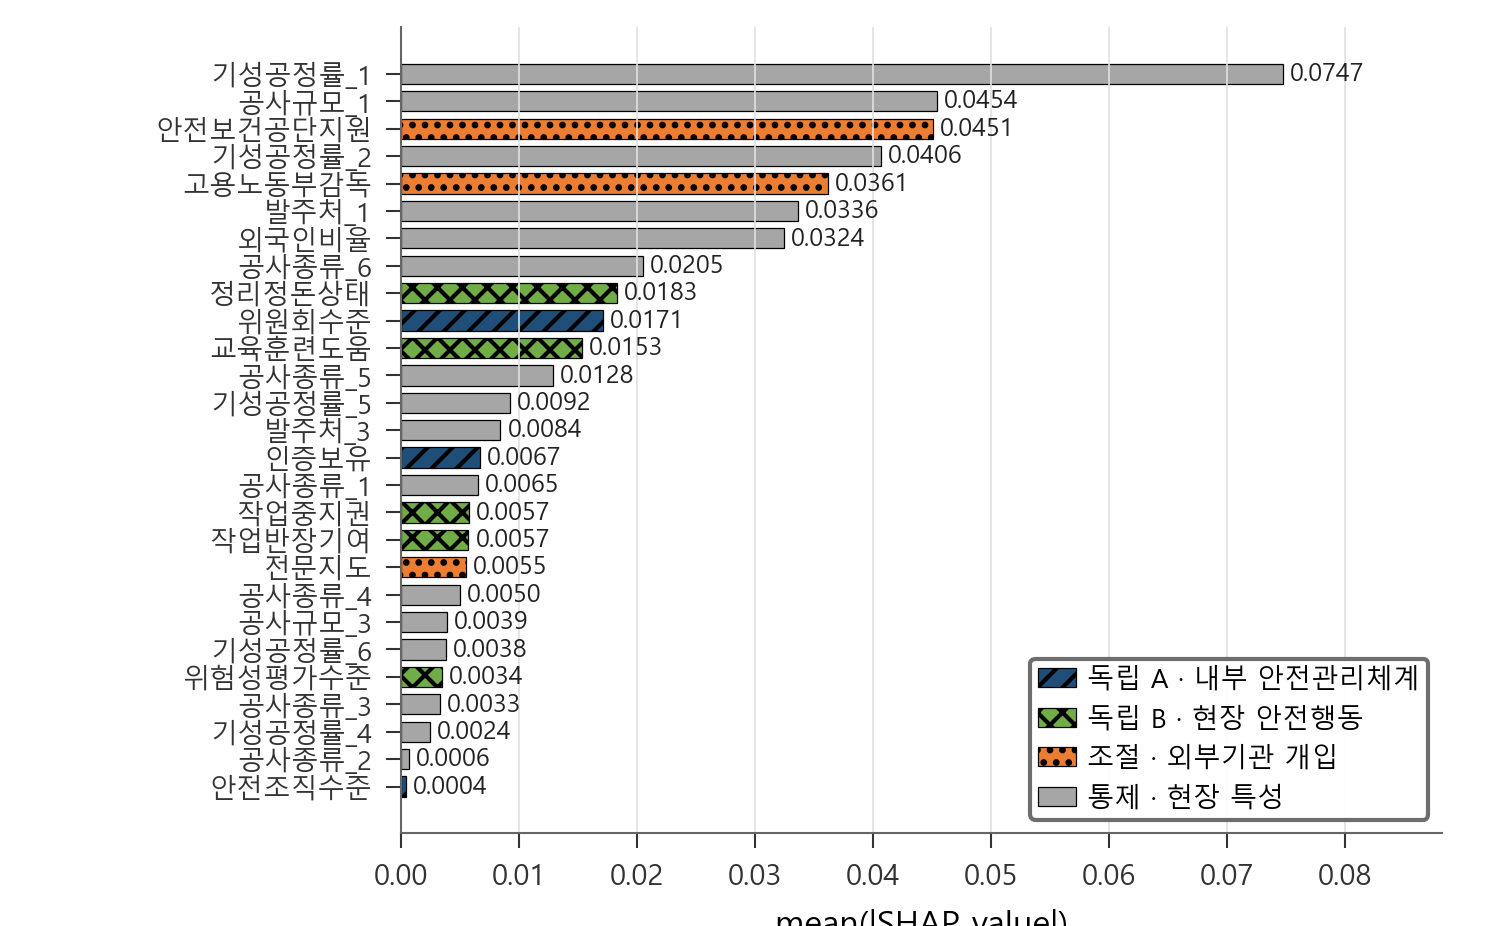
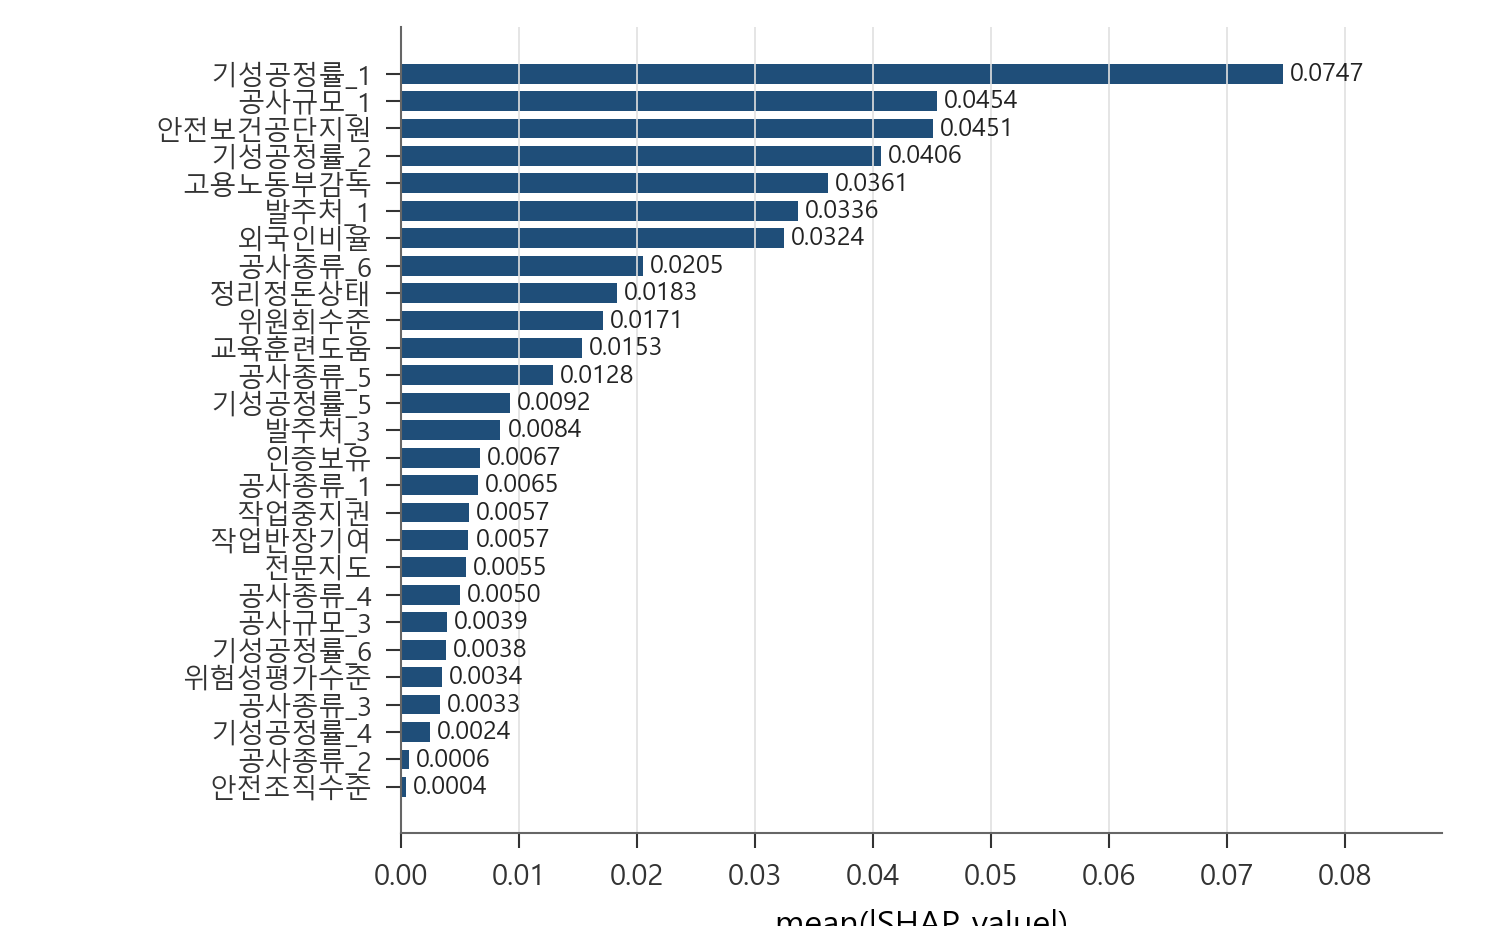
results/ 그림 3종 정리: 단일 파랑톤 + 해치 제거 + 그리드 제거
- 13_shap_bar.png: 카테고리 색·해치 전부 제거, 진한 파랑(#1F4E79) 단일색
- 12_shap_dependence_housekeeping.png: 양/음 색 분리 제거, 파랑 단일색
- 14_shap_interaction_heatmap.png: 셀 minor grid 제거

Changed region(s): [[0.1548, 0.0605, 0.8668, 0.8467], [0.681, 0.6955, 0.9596, 0.9071]]

diff --git a/src/paper_figures.py b/src/paper_figures.py
@@ -147,27 +147,16 @@ report_dims(OUT / '11_roc_curves.png')
 
 
 # ============ 그림 7.2 — SHAP Bar 전체 27변수 (125.85 × 78.46 mm) ============
-def cat_of(v):
-    if v in VARS_A:   return ('A', COLOR_INV_A,   '////', '독립 A · 내부 안전관리체계')
-    if v in VARS_B:   return ('B', COLOR_INV_B,   'xxxx', '독립 B · 현장 안전행동')
-    if v in VARS_MOD: return ('M', COLOR_MOD,     '....', '조절 · 외부기관 개입')
-    return                  ('C', COLOR_CONTROL,  '',     '통제 · 현장 특성')
-
 mean_abs = np.abs(shap_values).mean(axis=0)
 bar_df = pd.DataFrame({'변수': FEATURE_COLS, 'mean|SHAP|': mean_abs})
 bar_df = bar_df.sort_values('mean|SHAP|', ascending=True).reset_index(drop=True)
-meta = [cat_of(v) for v in bar_df['변수']]
 
 W = 125.85 / 25.4; H = 78.46 / 25.4
 fig = plt.figure(figsize=(W, H))
 gs = GridSpec(1, 1, left=0.27, right=0.97, top=0.97, bottom=0.10, figure=fig)
 ax = fig.add_subplot(gs[0])
-bars = ax.barh(np.arange(len(bar_df)), bar_df['mean|SHAP|'],
-                color=[m[1] for m in meta], edgecolor='black', linewidth=0.3,
-                height=0.74)
-for b, m in zip(bars, meta):
-    if m[2]:
-        b.set_hatch(m[2])
+ax.barh(np.arange(len(bar_df)), bar_df['mean|SHAP|'],
+        color='#1F4E79', edgecolor='none', height=0.72)
 
 xmax = bar_df['mean|SHAP|'].max()
 for i, val in enumerate(bar_df['mean|SHAP|']):
@@ -182,15 +171,6 @@ ax.spines['top'].set_visible(False)
 ax.spines['right'].set_visible(False)
 ax.grid(axis='x', alpha=1.0, color='#E0E0E0', linewidth=0.4)
 
-handles = [
-    Patch(facecolor=COLOR_INV_A,   edgecolor='black', linewidth=0.3, hatch='////', label='독립 A · 내부 안전관리체계'),
-    Patch(facecolor=COLOR_INV_B,   edgecolor='black', linewidth=0.3, hatch='xxxx', label='독립 B · 현장 안전행동'),
-    Patch(facecolor=COLOR_MOD,     edgecolor='black', linewidth=0.3, hatch='....', label='조절 · 외부기관 개입'),
-    Patch(facecolor=COLOR_CONTROL, edgecolor='black', linewidth=0.3, label='통제 · 현장 특성'),
-]
-ax.legend(handles=handles, loc='lower right', frameon=True, framealpha=0.95,
-          edgecolor='#666666', fontsize=6.5,
-          handlelength=1.4, handletextpad=0.4, borderpad=0.3)
 fig.set_size_inches(W, H, forward=True)
 fig.savefig(OUT / '13_shap_bar.png', dpi=300, bbox_inches=None, pad_inches=0)
 plt.close()
@@ -207,13 +187,9 @@ W = 107.39 / 25.4; H = 45.02 / 25.4
 fig = plt.figure(figsize=(W, H))
 ax = fig.add_axes([0.12, 0.26, 0.85, 0.69])
 
-# 색상: 양수=빨강, 음수=파랑
 rng = np.random.RandomState(42)
 xj = xv + rng.uniform(-0.10, 0.10, size=len(xv))
-color_pos = '#C00000'
-color_neg = '#1F4E79'
-colors = np.where(yv > 0, color_pos, color_neg)
-ax.scatter(xj, yv, s=8, alpha=0.5, c=colors, edgecolors='none')
+ax.scatter(xj, yv, s=8, alpha=0.5, c='#1F4E79', edgecolors='none')
 
 ax.axhline(0, color='#888888', linestyle='--', linewidth=0.6)
 ax.axvline(3, color='#888888', linestyle='--', linewidth=0.6)
@@ -255,10 +231,7 @@ ax.set_yticks(range(len(rows))); ax.set_yticklabels(rows, fontsize=7)
 ax.tick_params(axis='both', length=0)
 ax.set_xlabel('조절변수', fontsize=7)
 ax.set_ylabel('독립변수', fontsize=7)
-ax.set_xticks(np.arange(len(cols) + 1) - 0.5, minor=True)
-ax.set_yticks(np.arange(len(rows) + 1) - 0.5, minor=True)
-ax.grid(which='minor', color='#666666', linewidth=0.4)
-ax.tick_params(which='minor', length=0)
+ax.grid(False)
 
 cbar = fig.colorbar(im, cax=cax)
 cbar.ax.tick_params(labelsize=6)